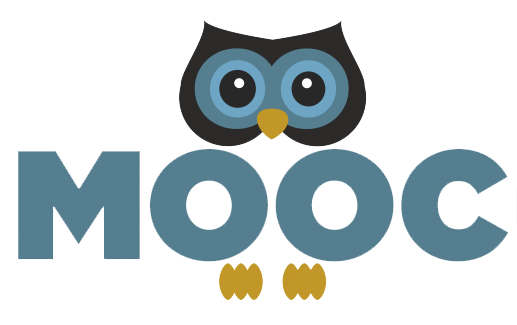
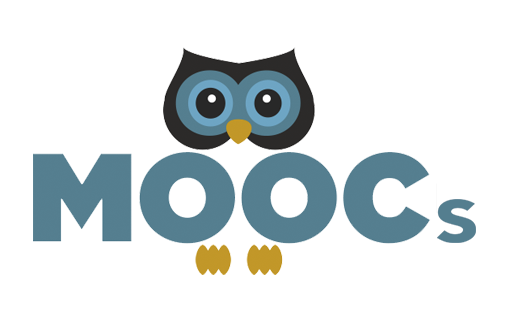
Preface added, coverimage changed

Changed region(s): [[0.0309, 0.0615, 0.9903, 0.9231], [0.1238, 0.4923, 0.1547, 0.5846]]

diff --git a/Eindverslag/preface.tex b/Eindverslag/preface.tex
@@ -1,7 +1,19 @@
 \chapter*{Preface}
 \setheader{Preface}
 
-Preface\ldots
+This report is the final report which concludes the development of a Peer Matching Application for Practicals for Massive Open Online Courses (MOOCs).
+This project was executed for the TI3800 - Bachelor Project course at the Delft University of Technology in the Netherlands.
+The assignment was issued by Prof. Drs. Dr. L.J.M. Rothkrantz, also from the Delft University of Technology.
+\\\\
+The project began at April 21st 2014 and finished at June 24th 2014. All research and development took place at the Delft University of Technology, department of Electrical Engineering, Mathematics and Computer Science. This report will provide examines the assignment, requirements, project methodology, system design, implementation, testing and results of the project.
+\\\\
+We would like to thank the following persons in particular:
+\begin{itemize}
+\item Leon Rothkrantz, for supervising the project and providing support and valuable guidance throughout the process.
+\item Dragos Datcu, for supervising the project and providing support and valuable guidance throughout the process.
+\item Felienne Hermans, for coordinating the Bachelor Project course and attending our final presentation.
+\item Martha Larson, for coordinating the Bachelor Project course.
+\end{itemize}
 
 \begin{flushright}
 {\makeatletter\itshape

diff --git a/Eindverslag/report.tex b/Eindverslag/report.tex
@@ -14,7 +14,7 @@
 \frontmatter
 
 \title[TI3800 Bachelorproject]{Peer Matching Tool}
-\author{Floris Verburg\\Freek van Tienen\\Marijn Goedegebure}
+\author{Floris Verburg \and Freek van Tienen \and Marijn Goedegebure}
 \affiliation{Technische Universiteit Delft}
 \coverimage{coverimage.png}
 \makecover
